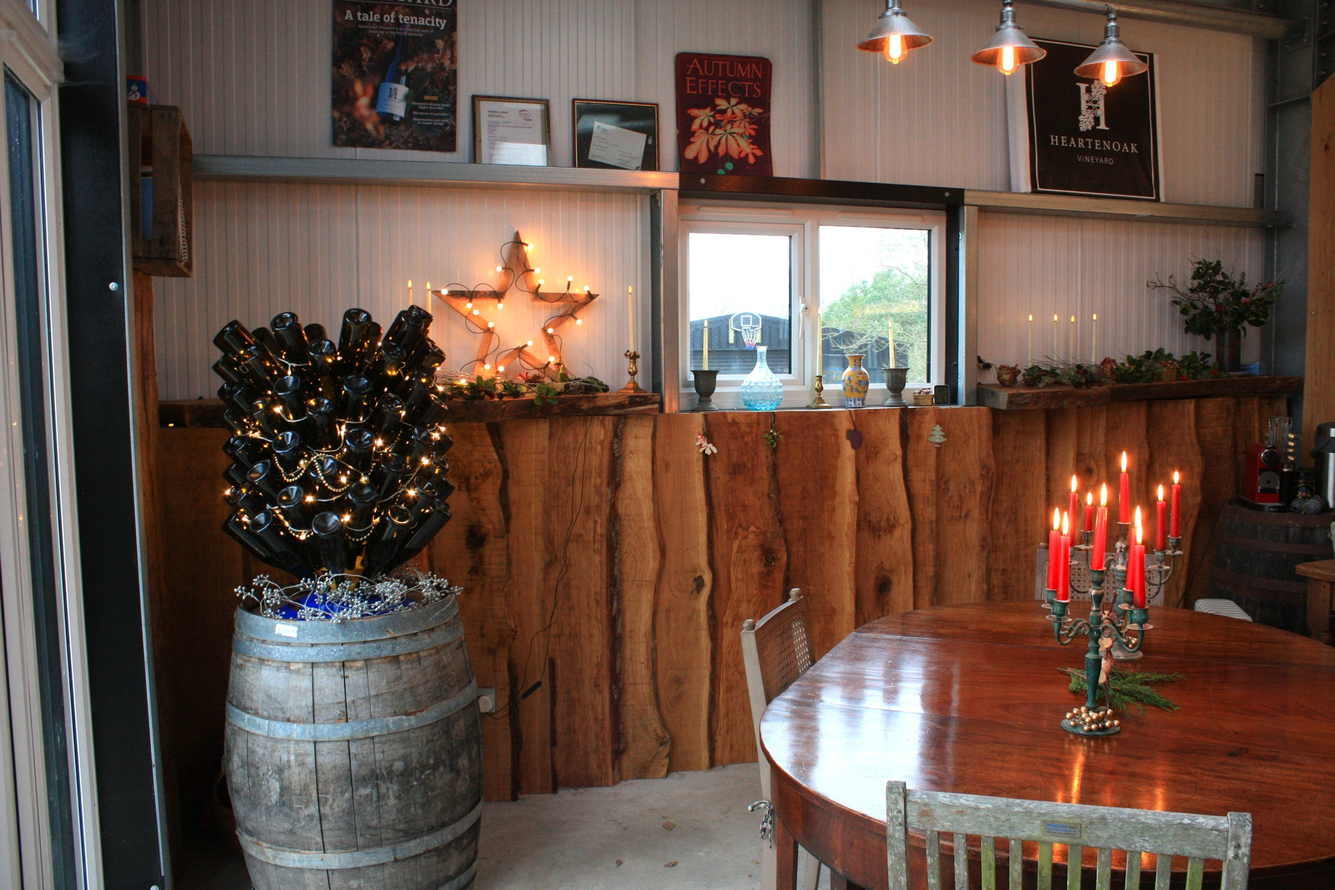
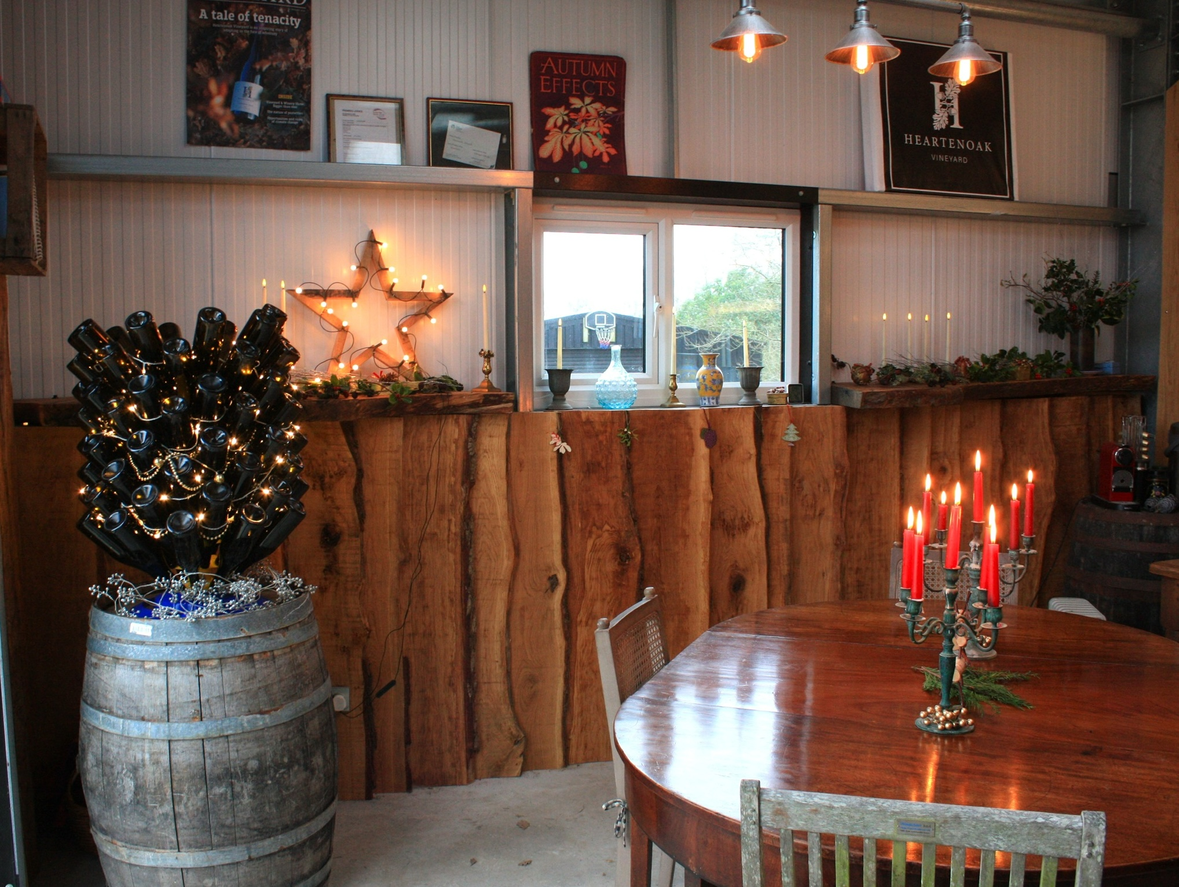
Updating tab titles and to 2025 wine photos

diff --git a/Website-html/Master/public/tourstastings.html b/Website-html/Master/public/tourstastings.html
@@ -1,7 +1,7 @@
 <!DOCTYPE html>
 <html>
 <head>
-<title>W3.CSS Template</title>
+<title>Tours and Tastings</title>
 <meta charset="UTF-8">
 <meta name="viewport" content="width=device-width, initial-scale=1">
 <link rel="stylesheet" href="style.css">
@@ -155,8 +155,8 @@ body, html {
 
 <!-- Container (Portfolio Section) -->
 <div class="w3-content w3-container w3-padding-16" id="portfolio">
-  <h3 class="w3-center">Images</h3>
-  <p class="w3-center">Personalised tour and tasting experiences<br> <em>Click on the images to make them bigger</em></p>
+  <h3 class="w3-center">Gallery</h3>
+  <p class="w3-center"> <em>Personalised tour and tasting experiences</em></p>
   <!-- Responsive Grid. Three columns on tablets, laptops and desktops. Will stack on mobile devices/small screens (100% width) -->
   <div class="w3-row-padding w3-center">
     <div class="w3-col m4">
@@ -176,7 +176,7 @@ body, html {
     </div>
 
     <div class="w3-col m4">
-      <img src="Images/winetrio.jpeg" style="width:100%" onclick="onClick(this)" class="w3-hover-opacity" alt="Sample Wines">
+      <img src="Images/Bacchus 2025.jpeg" style="width:100%" onclick="onClick(this)" class="w3-hover-opacity" alt="Bacchus">
     </div>
 
     <div class="w3-col m4">

diff --git a/Website-html/Master/public/winery.html b/Website-html/Master/public/winery.html
@@ -1,7 +1,7 @@
 <!DOCTYPE html>
 <html>
 <head>
-<title>W3.CSS Template</title>
+<title>Heartenoak Winery</title>
 <meta charset="UTF-8">
 <meta name="viewport" content="width=device-width, initial-scale=1">
 <link rel="stylesheet" href="style.css">
@@ -156,8 +156,8 @@ body, html {
 
 <!-- Container (Portfolio Section) -->
 <div class="w3-content w3-container w3-padding" id="portfolio">
-  <h3 class="w3-center">Images</h3>
-  <p class="w3-center">Some of the recent activity in the winery.<br> <em>Click on the images to make them bigger</em></p><br>
+  <h3 class="w3-center">Gallery</h3>
+  <p class="w3-center">Some of the recent activity in the winery<br> <em>Click on the images to make them bigger</em></p><br>
   <!-- Responsive Grid. Three columns on tablets, laptops and desktops. Will stack on mobile devices/small screens (100% width) -->
   <div class="w3-row-padding w3-center">
     <div class="w3-col m4">

diff --git a/Website-html/Master/public/vineyard.html b/Website-html/Master/public/vineyard.html
@@ -1,7 +1,7 @@
 <!DOCTYPE html>
 <html>
 <head>
-<title>W3.CSS Template</title>
+<title>Heartenoak Vineyard</title>
 <meta charset="UTF-8">
 <meta name="viewport" content="width=device-width, initial-scale=1">
 <link rel="stylesheet" href="style.css">

diff --git a/Website-html/Master/public/kentishwineway.html b/Website-html/Master/public/kentishwineway.html
@@ -1,7 +1,7 @@
 <!DOCTYPE html>
 <html>
 <head>
-<title>W3.CSS Template</title>
+<title>Kentish Wine Way</title>
 <meta charset="UTF-8">
 <meta name="viewport" content="width=device-width, initial-scale=1">
 <link rel="stylesheet" href="style.css">

diff --git a/Website-html/deploy_steps.py b/Website-html/deploy_steps.py
@@ -1,5 +1,5 @@
 #Deployment steps
-# Open finder, go to /Users/annabelford/Documents/GitHub/potential-pancake/potential-pancake/Website-html/Launched
+# Open finder, go to /Users/annabelford/Documents/GitHub/potential-pancake/potential-pancake/Website-html/Launched (or Master or similar)
 # and right click, new terminal tab at folder. 
 # In terminal; firebase init hosting
 #  firebase hosting:channel:deploy preview_030421 (can change 'preview_030421' to anything you want) 
@@ -27,8 +27,16 @@
 #firebase use heartenoak-vineyard to switch the project
 
 
+#09/08/26 had to run firebase logout and firebase login to get it working again, had been getting errors on failed to get firebase project heartenoak-vineyard
+
+
 If error on selecting project after init hosting:
 FirebaseError: HTTP Error: 401, Request had invalid authentication credentials. Expected OAuth 2 access token, login cookie or other valid authentication credential. See https://developers.google.com/identity/sign-in/web/devconsole-project.
 
 
 Then run "firebase login --reauth"
+
+
+
+run command: 
+firebase deploy --only hosting -m "Updating to have new Vineyard and Winery sections"
